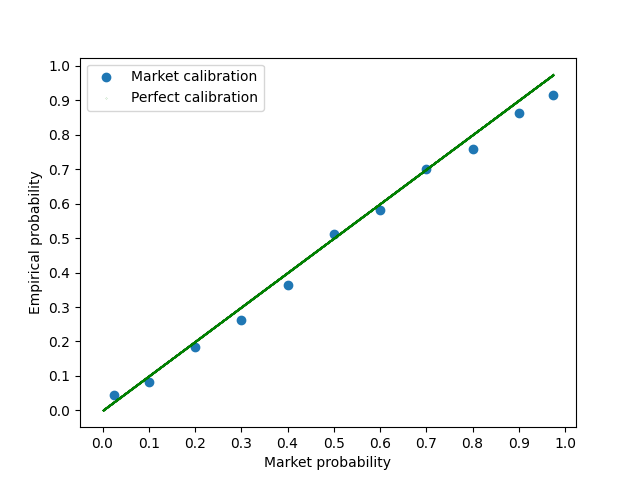
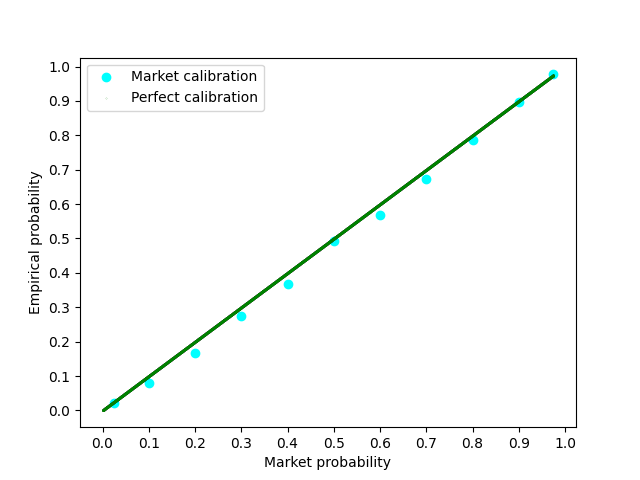
Added poll and bountied_question. Closes #151, closes #152

diff --git a/scripts/all_calibration.py b/scripts/all_calibration.py
@@ -1,93 +1,14 @@
 """Calibration across all resolved markets.
 Currently only works for binary markets.
 """
-import pickle
 from pathlib import Path
-from typing import Optional
 
-import numpy as np
-from matplotlib import pyplot as plt
-
-from manifoldpy import api, calibration, config
-
-
-def plot_beta_binomial(
-    upper_lower: np.ndarray, means: np.ndarray, decimals
-):  # pragma: no cover
-    _, ax = plt.subplots()
-    num_bins = 10**decimals
-    x_axis = np.arange(0, 1 + 1 / num_bins, 1 / num_bins)
-    ax.scatter(x_axis, means, color="blue")
-    ax.scatter(x_axis, upper_lower[:, 0], color="black", marker="_")  # type: ignore
-    ax.scatter(x_axis, upper_lower[:, 1], color="black", marker="_")  # type: ignore
-    plt.vlines(x_axis, upper_lower[:, 0], upper_lower[:, 1], color="black")
-
-    ax.set_xticks(np.arange(0, 1 + 1 / 10, 1 / 10))
-    ax.set_xlabel("Market probability")
-    ax.set_yticks(np.arange(0, 1 + 1 / 10, 1 / 10))
-    ax.set_ylabel("Beta binomial means and 0.95 intervals")
-
-    l = np.arange(0, x_axis.max(), 0.0001)
-    ax.scatter(l, l, color="green", s=0.01, label="Perfect calibration")
-    plt.show()
-
-
-def plot_calibration(
-    c_table: np.ndarray, bins: np.ndarray, path: Optional[Path] = None
-):  # pragma: no cover
-    _, ax = plt.subplots()
-    ax.scatter(bins, c_table, label="Market calibration")
-    # Perfect calibration line
-    l = np.arange(0, bins.max(), 0.0001)
-    ax.scatter(l, l, color="green", s=0.01, label="Perfect calibration")
-
-    ax.set_xticks(np.arange(0, 1 + 1 / 10, 1 / 10))
-    ax.set_xlabel("Market probability")
-    ax.set_yticks(np.arange(0, 1 + 1 / 10, 1 / 10))
-    ax.set_ylabel("Empirical probability")
-    ax.legend()
-
-    if path is None:
-        plt.show()
-    else:
-        plt.savefig(path)
-
-
-def group_calibration_at_close():
-    market_cache = pickle.load(config.CACHE_LOC.open("rb"))
-    full_markets = [x["market"] for x in market_cache.values()]
-    binary = [
-        m for m in full_markets if isinstance(m, api.BinaryMarket) and m.isResolved
-    ]
-    df, _histories = calibration.build_dataframe(binary)  # type: ignore
-    # Group calibration
-    groups = calibration.markets_by_group(df)
-    results = {}
-    for group_name, f in groups.items():
-        markets = df[f]
-        if len(markets) < 10:
-            continue
-        yes_markets = markets[markets["resolution"] == "YES"]
-        yes_count = len(
-            yes_markets[(yes_markets["final"] < 0.95) & (yes_markets["final"] > 0.85)]
-        )
-        no_markets = markets[markets["resolution"] == "NO"]
-        no_count = len(
-            no_markets[(no_markets["final"] < 0.95) & (no_markets["final"] > 0.85)]
-        )
-        if yes_count + no_count < 10:
-            continue
-        res = calibration.binary_calibration(yes_markets["final"], no_markets["final"])[  # type: ignore
-            -2
-        ]
-        results[group_name] = res
-    print(results)
+from manifoldpy import api, calibration, cache_utils
 
 
 def overall_calibration():
     """Evaluate calibration at start, end, midway, and for individual groups"""
-    market_cache = pickle.load(config.CACHE_LOC.open("rb"))
-    full_markets = [x["market"] for x in market_cache.values()]
+    full_markets = cache_utils.load_full_markets()
     binary = [
         m for m in full_markets if isinstance(m, api.BinaryMarket) and m.isResolved
     ]
@@ -115,10 +36,19 @@ def overall_calibration():
     no_probs = f_no["midway"]
     res = calibration.market_set_accuracy(yes_probs, no_probs)  # type: ignore
     midway_10 = res["10% calibration"]
-    plot_calibration(
+    calibration.plot_calibration(
         midway_10,
         calibration.perfect_calibration(1),
         Path(__file__).parent.parent / "docs" / "midway_calibration.png",
+    )
+    beta_means, beta_intervals = calibration.market_set_accuracy(yes_probs, no_probs)[
+        "beta-binomial"
+    ]
+    calibration.plot_beta_binomial(
+        beta_intervals,
+        beta_means,
+        decimals=1,
+        path=Path(__file__).parent.parent / "docs" / "beta_binomial_midway.png",
     )
 
 

diff --git a/manifoldpy/calibration.py b/manifoldpy/calibration.py
@@ -1,6 +1,7 @@
 """Tools for calculating calibration and other accuracy metrics."""
 import bisect
-from typing import Any, Dict, List, Tuple
+from pathlib import Path
+from typing import Any, Dict, List, Optional, Tuple
 
 import numpy as np
 import numpy.typing as npt
@@ -267,7 +268,10 @@ def kl_beta(
 
 
 def plot_beta_binomial(
-    upper_lower: np.ndarray, means: np.ndarray, decimals
+    upper_lower: np.ndarray,
+    means: np.ndarray,
+    decimals: int,
+    path: Optional[Path] = None,
 ):  # pragma: no cover
     _, ax = plt.subplots()
     num_bins = 10**decimals
@@ -282,6 +286,30 @@ def plot_beta_binomial(
     ax.set_yticks(np.arange(0, 1 + 1 / 10, 1 / 10))
     ax.set_ylabel("Beta binomial means and 0.95 intervals")
 
-    l = np.arange(0, x_axis.max(), 0.0001)
+    l = np.arange(0, x_axis.max(), 0.00001)
     ax.scatter(l, l, color="green", s=0.01, label="Perfect calibration")
-    plt.show()
+    if path is None:
+        plt.show()
+    else:
+        plt.savefig(path)
+
+
+def plot_calibration(
+    c_table: np.ndarray, bins: np.ndarray, path: Optional[Path] = None
+):  # pragma: no cover
+    _, ax = plt.subplots()
+    ax.scatter(bins, c_table, color="cyan", label="Market calibration")
+    # Perfect calibration line
+    l = np.arange(0, bins.max(), 0.00001)
+    ax.scatter(l, l, color="green", s=0.01, label="Perfect calibration")
+
+    ax.set_xticks(np.arange(0, 1 + 1 / 10, 1 / 10))
+    ax.set_xlabel("Market probability")
+    ax.set_yticks(np.arange(0, 1 + 1 / 10, 1 / 10))
+    ax.set_ylabel("Empirical probability")
+    ax.legend()
+
+    if path is None:
+        plt.show()
+    else:
+        plt.savefig(path)

diff --git a/manifoldpy/api.py b/manifoldpy/api.py
@@ -125,6 +125,7 @@ class Comment:
     """A comment on a market"""
 
     id: str
+    commentId: str
     contractId: str
     contractQuestion: str
     userUsername: str
@@ -152,6 +153,9 @@ class Comment:
     bettorName: Optional[str] = None
     bettorUsername: Optional[str] = None
     editedTime: Optional[int] = None
+    betAnswerId: Optional[str] = None
+    commenterPositionAnswerId: Optional[str] = None
+    bountyAwarded: Optional[bool] = None
 
 
 @define
@@ -272,8 +276,9 @@ class Market:
         try:
             cls = MARKET_TYPES_MAP[json["outcomeType"]]
         except KeyError:
+            market_id = json["id"]
             raise ValueError(
-                f'{json["outcomeType"]} isn\'t a known market outcome type. Submit a bug report if the json came from the API.'
+                f'{json["outcomeType"]} isn\'t a known market outcome type. Submit a bug report for market ID {market_id}.'
             )
         return weak_structure(json, cls)
 
@@ -400,6 +405,16 @@ class StonkMarket(Market):
 
 
 @define
+class Poll(Market):
+    pass
+
+
+@define
+class BountiedMarket(Market):
+    pass
+
+
+@define
 class ContractMetric:
     contractId: str
     from_dict: dict
@@ -435,6 +450,8 @@ MARKET_TYPES_MAP: Mapping[str, Type[Market]] = {
     "MULTIPLE_CHOICE": MultipleChoiceMarket,
     "QUADRATIC_FUNDING": QuadraticFundingMarket,
     "STONK": StonkMarket,
+    "POLL": Poll,
+    "BOUNTIED_QUESTION": BountiedMarket,
 }
 
 

diff --git a/tests/api_test/api_correctness_test.py b/tests/api_test/api_correctness_test.py
@@ -18,7 +18,9 @@ def test_comment_correctness_small():
     json = api._get_comments(marketId="pBPJS5ebbd3QD3RVi8AN")
     expected_keys = {x.name for x in api.Comment.__attrs_attrs__}  # type: ignore
     actual_keys = {y for x in json for y in x}
-    assert actual_keys.issubset(expected_keys)
+    assert actual_keys.issubset(
+        expected_keys
+    ), f"Extra keys: {actual_keys - expected_keys}"
 
 
 def test_probability_at_time() -> None:
@@ -43,7 +45,9 @@ def test_comment_correctness_large():
     for market in markets:
         json = api._get_comments(marketId=market.id)
         actual_keys = {y for x in json for y in x}
-        assert actual_keys.issubset(expected_keys)
+        assert actual_keys.issubset(
+            expected_keys
+        ), f"Extra keys: {actual_keys - expected_keys}"
         if len(json) > 0:
             always_present &= actual_keys
     print(f"Always present keys: {always_present}")

diff --git a/tests/api_test/get_endpoints_test.py b/tests/api_test/get_endpoints_test.py
@@ -49,6 +49,7 @@ def test_get_comments_slug():
     assert len(comments) == 6
 
 
+@pytest.mark.skip(reason="This endpoint breaks upstream.")
 def test_get_groups():
     groups = api.get_groups()
     assert len(groups) >= 480
@@ -127,8 +128,13 @@ def test_get_multiple_choice_market():
     assert isinstance(market, api.MultipleChoiceMarket)
 
 
+def test_get_bountied_market():
+    market = api.get_market("ofhEyRqeO8AXY6SNteOO")
+    assert isinstance(market, api.BountiedMarket)
+
+
 def test_search_markets():
-    markets = api.search_markets("will")
+    markets = api.search_markets(["will"])
     assert len(markets) <= 100
 
 

diff --git a/tests/calibration_test.py b/tests/calibration_test.py
@@ -91,7 +91,6 @@ def test_beta_binomial_calibration():
 
 
 def test_perfect_calibration():
-
     assert np.isclose(
         calibration.perfect_calibration(1),
         np.array([0.025, 0.1, 0.2, 0.3, 0.4, 0.5, 0.6, 0.7, 0.8, 0.9, 0.975]),
@@ -99,7 +98,6 @@ def test_perfect_calibration():
 
 
 def test_market_set_accuracy(test_markets):
-
     res = calibration.market_set_accuracy(*calibration.extract_binary_probabilities(test_markets))  # type: ignore
     assert np.isclose(res["10% calibration"][7], 0.66666)
     assert np.isclose(res["Brier score"], 0.22333333)

diff --git a/scripts/build_cache.py b/scripts/build_cache.py
@@ -3,7 +3,7 @@ from manifoldpy import cache_utils
 
 def main():
     cache_utils.update_lite_markets()
-    cache_utils.backfill_bets()
+    # cache_utils.backfill_bets()
 
 
 if __name__ == "__main__":

diff --git a/manifoldpy/cache_utils.py b/manifoldpy/cache_utils.py
@@ -7,7 +7,6 @@ from manifoldpy import api, config
 
 
 class Cache(TypedDict):
-
     latest_market: int
     latest_bet: int
     lite_markets: Dict[str, Dict[str, Any]]
